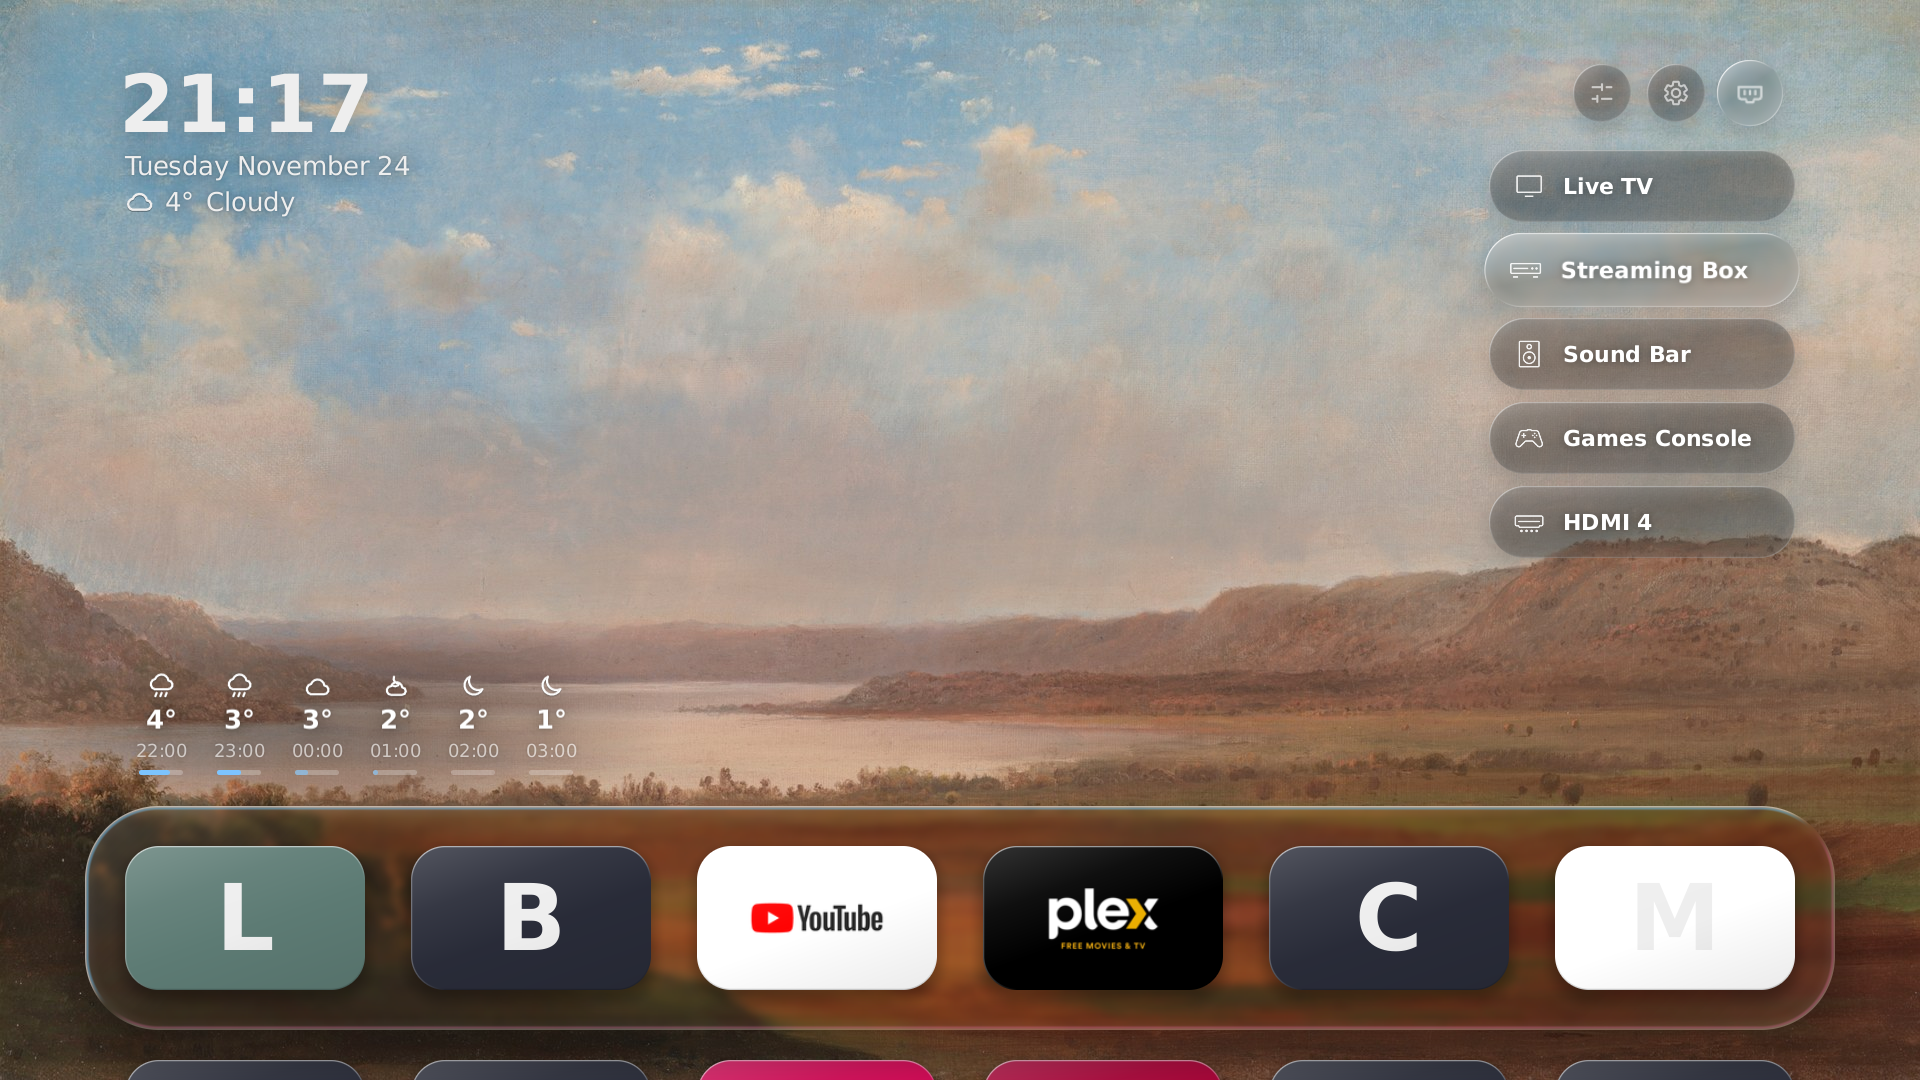
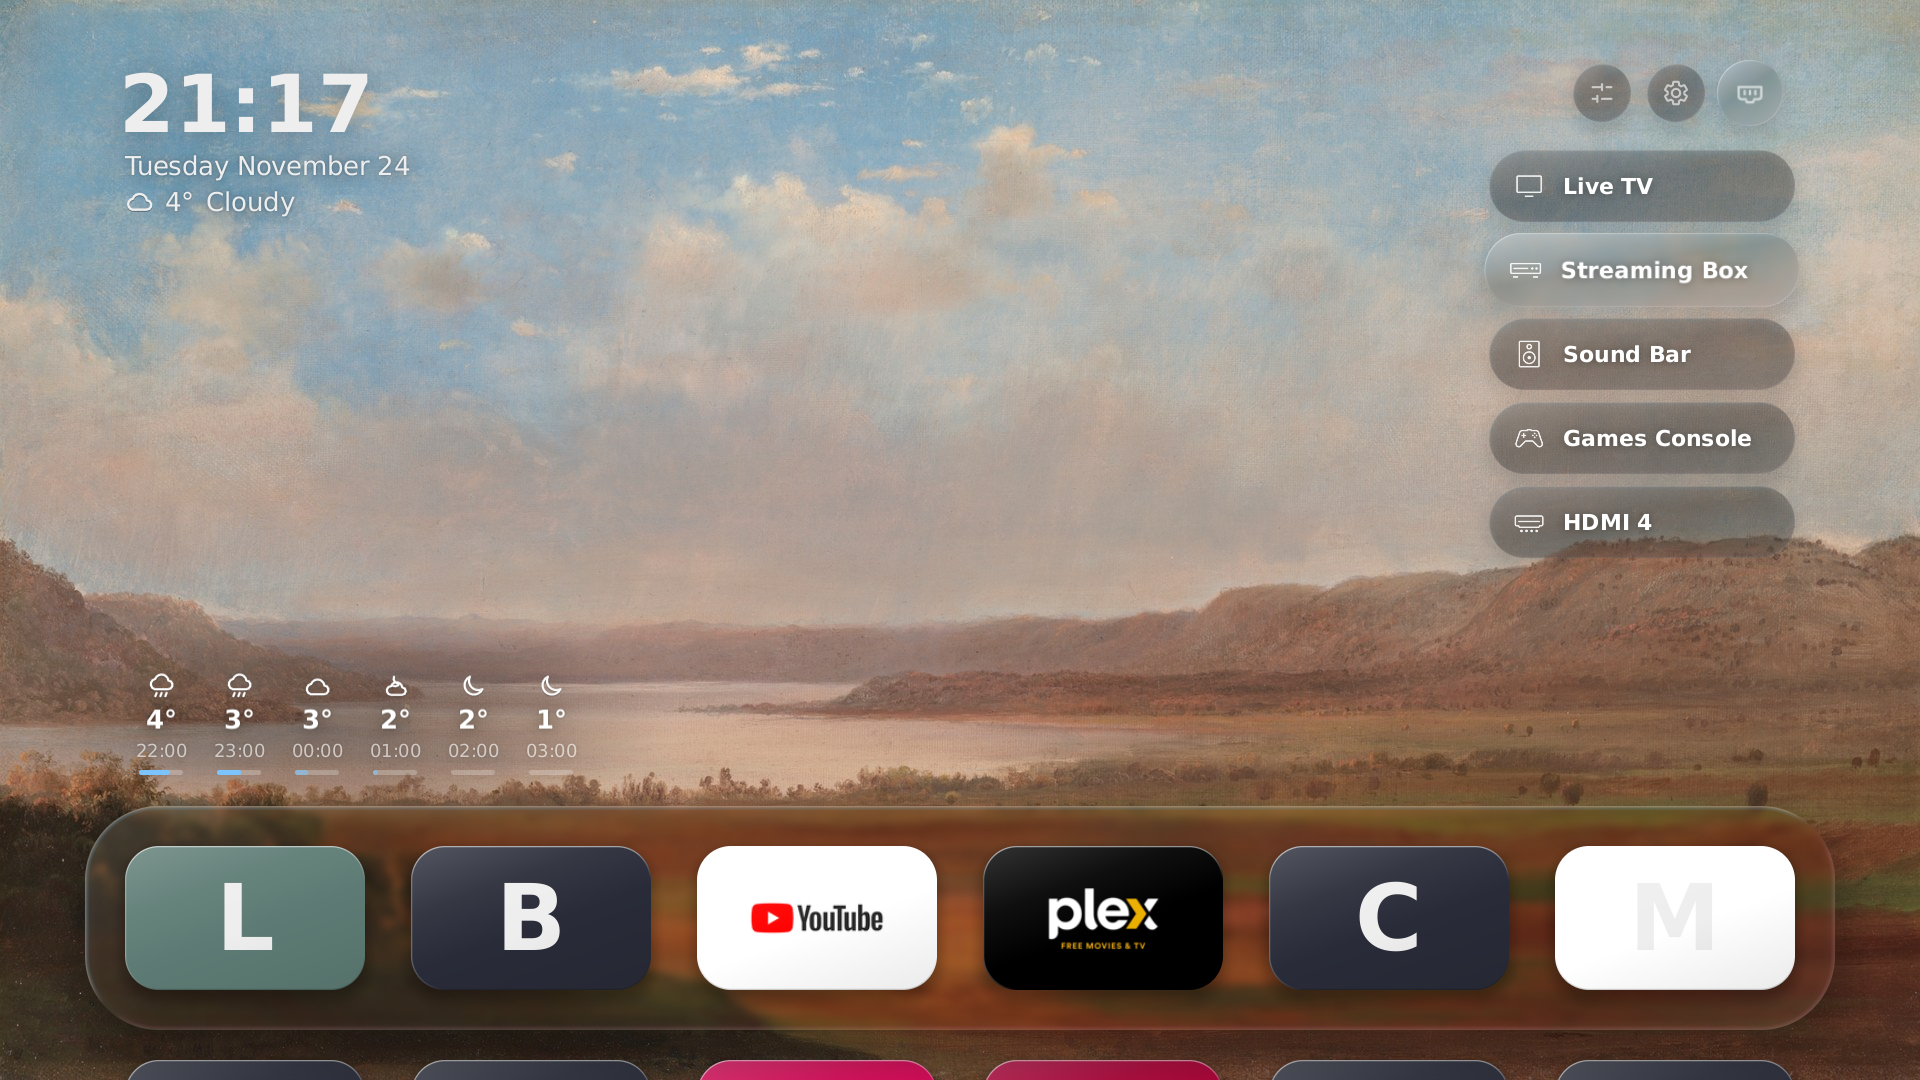
Lumen Native: Sam's glass values are the new default, and the Glass lab can make the left and right edges bend less than the top and bottom
Side edges, width and Side edges, bend set the band of bend on a glass shape's sides apart from its top and bottom, blending round the corners. The lab's timing also shows in nctl where. RESEARCH.md: the colour fringe costs nothing natively.

Changed region(s): [[0.0625, 0.7333, 0.9375, 0.7639]]

diff --git a/native/lumen/src/lab.rs b/native/lumen/src/lab.rs
@@ -20,7 +20,7 @@ const BUTTONS_Y: f32 = 184.0;
 const BUTTON_H: f32 = 54.0;
 const BUTTON_GAP: f32 = 14.0;
 const ROWS_Y: f32 = 262.0;
-const ROW_H: f32 = 46.0;
+const ROW_H: f32 = 42.0;
 const COL_W: f32 = 640.0;
 const NAME_W: f32 = 290.0;
 const TRACK_W: f32 = 220.0;
@@ -44,13 +44,15 @@ const fn slider(name: &'static str, label: &'static str, min: f32, max: f32, ste
     Control::Slider { name, label, min, max, step }
 }
 
-pub const CONTROLS: [Control; 21] = [
+pub const CONTROLS: [Control; 23] = [
     Control::Switch(Toggle::Liquid, "Liquid glass"),
     Control::Switch(Toggle::Focus, "Show focus"),
     Control::Switch(Toggle::Moving, "Move focus by itself"),
     slider("bend", "Edge bend", -200.0, 200.0, 4.0),
     slider("bezel", "Edge width", 1.0, 110.0, 1.0),
     slider("edge_shape", "Edge shape, round to flat", 1.0, 8.0, 0.25),
+    slider("side_width", "Side edges, width", 0.2, 2.0, 0.05),
+    slider("side_bend", "Side edges, bend", 0.0, 1.0, 0.05),
     slider("fringe", "Colour fringe", 0.0, 1.0, 0.02),
     slider("magnify", "Magnify", -0.2, 0.2, 0.01),
     slider("liquid_blur", "Blur, liquid glass", 0.0, 4.0, 0.05),
@@ -67,10 +69,10 @@ pub const CONTROLS: [Control; 21] = [
     slider("sheen", "Sheen", 0.0, 3.0, 0.05),
     slider("glow", "Inner glow", 0.0, 8.0, 0.25),
 ];
-const LEFT_COLUMN: usize = 11;
+const LEFT_COLUMN: usize = 12;
 pub const BUTTONS: [&str; 4] = ["Exit", "New wallpaper", "Hide controls", "Reset"];
 
-pub const GLASS_LOOK: [&str; 21] = ["bend", "bezel", "edge_shape", "fringe", "magnify", "liquid_blur", "glass_halvings", "glass_passes", "frost", "tint", "saturate", "brighten", "glass_shadow", "specular", "light_angle", "rim_light", "colour_rims", "button_colour_rims", "sheen", "glow", "finish"];
+pub const GLASS_LOOK: [&str; 23] = ["bend", "bezel", "edge_shape", "side_width", "side_bend", "fringe", "magnify", "liquid_blur", "glass_halvings", "glass_passes", "frost", "tint", "saturate", "brighten", "glass_shadow", "specular", "light_angle", "rim_light", "colour_rims", "button_colour_rims", "sheen", "glow", "finish"];
 
 #[derive(Clone, PartialEq, Debug)]
 pub enum Outcome {
@@ -286,7 +288,7 @@ impl Lab {
             Some(Control::Slider { name, label, .. }) => json!({"part": "lab__row", "label": label, "name": name, "value": look.get(name)}),
             Some(Control::Switch(toggle, label)) => json!({"part": "lab__row", "label": label, "on": self.switch_on(toggle, liquid)}),
         };
-        json!({"screen": "glass lab", "focused": [focused]})
+        json!({"screen": "glass lab", "focused": [focused], "timing": self.timing()})
     }
 
     pub fn draw(&mut self, d: &mut Draw, liquid: bool) {
@@ -391,7 +393,7 @@ mod tests {
         for i in 0..20 {
             last = lab.key(Key::Right, &look, true, 1000 + i * 50);
         }
-        assert_eq!(last, Outcome::Set("bend", 44.0 + 4.0 * 4.0));
+        assert_eq!(last, Outcome::Set("bend", Look::defaults().bend + 4.0 * 4.0));
     }
 
     #[test]

diff --git a/native/lumen/src/shaders.rs b/native/lumen/src/shaders.rs
@@ -56,13 +56,16 @@ pub const LENS_FRAGMENT: &str = r#"uniform vec4 u_bar;
 uniform float u_radius;
 uniform float u_bezel;
 uniform float u_edge_shape;
+uniform vec2 u_side;
 void main() {
   vec2 hs = u_bar.zw * 0.5;
   vec2 p = v_px - (u_bar.xy + hs);
   float d = rr(p, hs, u_radius);
   float shadow = 0.28 * (1.0 - smoothstep(-26.0, 44.0, rr(p - vec2(0.0, 20.0), hs, u_radius)));
-  float e = clamp(1.0 + d / u_bezel, 0.0, 1.0);
-  vec2 off = -rr_normal(p, hs, u_radius) * (1.0 - pow(max(1.0 - pow(e, u_edge_shape), 0.0), 1.0 / u_edge_shape));
+  vec2 n = rr_normal(p, hs, u_radius);
+  float side = abs(n.x);
+  float e = clamp(1.0 + d / (u_bezel * mix(1.0, u_side.x, side)), 0.0, 1.0);
+  vec2 off = -n * mix(1.0, u_side.y, side) * (1.0 - pow(max(1.0 - pow(e, u_edge_shape), 0.0), 1.0 / u_edge_shape));
   gl_FragColor = vec4((off * 127.0 + 128.0) / 255.0, clamp(0.5 - d, 0.0, 1.0), shadow);
 }
 "#;
@@ -223,6 +226,7 @@ uniform float u_alpha;
 uniform vec3 u_bend;
 uniform vec4 u_shape;
 uniform vec4 u_light;
+uniform vec2 u_side;
 void main() {
   vec2 hs = u_box.zw * 0.5;
   vec2 p = v_px - (u_box.xy + hs);
@@ -236,9 +240,10 @@ void main() {
   if (u_bend.x == 0.0 && u_shape.y == 0.0) seen = texture2D(u_glass, v_uv).rgb;
   else {
     float bezel = min(u_bend.z, 0.5 * min(hs.x, hs.y));
-    float e = clamp(1.0 + d / bezel, 0.0, 1.0);
+    float side = abs(n.x);
+    float e = clamp(1.0 + d / (bezel * mix(1.0, u_side.x, side)), 0.0, 1.0);
     float lift = 1.0 - pow(max(1.0 - pow(e, u_shape.x), 0.0), 1.0 / u_shape.x);
-    vec2 off = (-n * lift * u_bend.x * bezel / u_bend.z - p * u_shape.y) / vec2(1920.0, 1080.0);
+    vec2 off = (-n * lift * mix(1.0, u_side.y, side) * u_bend.x * bezel / u_bend.z - p * u_shape.y) / vec2(1920.0, 1080.0);
     seen = vec3(texture2D(u_glass, v_uv + off * (1.0 + u_bend.y)).r, texture2D(u_glass, v_uv + off).g, texture2D(u_glass, v_uv + off * (1.0 - u_bend.y)).b);
   }
   float grey = dot(seen, vec3(0.299, 0.587, 0.114));

diff --git a/native/lumen/src/home.rs b/native/lumen/src/home.rs
@@ -251,7 +251,7 @@ pub struct Home {
     veil: Tex,
     blurs_made_with: [i32; 5],
     bar_made_with: f32,
-    plates_made_with: [f32; 8],
+    plates_made_with: [f32; 10],
     shift: Anim,
     veil_fade: Anim,
     drop: Anim,
@@ -479,7 +479,7 @@ impl Home {
             veil: Tex::default(),
             blurs_made_with: [0; 5],
             bar_made_with: 0.0,
-            plates_made_with: [0.0; 8],
+            plates_made_with: [0.0; 10],
             shift: Anim::still(0.0),
             veil_fade: Anim::still(0.0),
             drop: Anim::still(0.0),
@@ -1231,9 +1231,9 @@ impl Home {
         resting
     }
 
-    fn plate_look(d: &Draw) -> [f32; 8] {
+    fn plate_look(d: &Draw) -> [f32; 10] {
         let l = &d.look;
-        [l.bezel, l.edge_shape, l.specular, l.light_angle, l.colour_rims, l.rim_light, l.sheen, l.glow]
+        [l.bezel, l.edge_shape, l.specular, l.light_angle, l.colour_rims, l.rim_light, l.sheen, l.glow, l.side_width, l.side_bend]
     }
 
     fn bar_plates(&mut self, d: &mut Draw) -> (Tex, Tex) {
@@ -1250,12 +1250,13 @@ impl Home {
             program.set1(c"u_radius", BAR_RADIUS);
             program.set1(c"u_bezel", d.look.bezel);
             program.set1(c"u_edge_shape", d.look.edge_shape);
+            program.set2(c"u_side", d.look.side_width, d.look.side_bend);
             let [lx, ly] = d.light();
             program.set4(c"u_light", lx, ly, d.look.specular, d.look.colour_rims);
             program.set3(c"u_finish", [d.look.rim_light, d.look.sheen, d.look.glow]);
             d.gfx.quad(program, 0.0, 0.0, w, h);
         }
-        self.bar_made_with = d.look.bezel;
+        self.bar_made_with = d.look.bezel * d.look.side_width.max(1.0);
         self.plates_made_with = Self::plate_look(d);
         d.keep("bar:lens", lens);
         d.keep("bar:gloss", gloss);

diff --git a/native/lumen/src/look.rs b/native/lumen/src/look.rs
@@ -50,11 +50,11 @@ look! {
     show_top_wait_ms = 200.0, 0.0, 2000.0;
     glass_halvings = 0.0, 0.0, 4.0;
     glass_passes = 1.0, 1.0, 8.0;
-    liquid_blur = 0.35, 0.0, 4.0;
+    liquid_blur = 0.1, 0.0, 4.0;
     veil_halvings = 2.0, 0.0, 4.0;
     veil_passes = 3.0, 1.0, 8.0;
-    bezel = 28.0, 1.0, 110.0;
-    bend = 44.0, -200.0, 200.0;
+    bezel = 27.0, 1.0, 110.0;
+    bend = 36.0, -200.0, 200.0;
     fringe = 0.12, 0.0, 1.0;
     saturate = 1.5, 0.0, 3.0;
     brighten = 1.1, 0.0, 3.0;
@@ -69,12 +69,14 @@ look! {
     magnify = 0.0, -0.5, 0.5;
     specular = 0.0, 0.0, 2.0;
     light_angle = -45.0, -180.0, 180.0;
-    rim_light = 1.0, 0.0, 3.0;
-    colour_rims = 1.0, 0.0, 3.0;
-    button_colour_rims = 0.0, 0.0, 3.0;
+    rim_light = 0.5, 0.0, 3.0;
+    colour_rims = 0.35, 0.0, 3.0;
+    button_colour_rims = 0.1, 0.0, 3.0;
     sheen = 1.0, 0.0, 3.0;
     frost = 0.0, 0.0, 1.0;
-    glow = 1.0, 0.0, 8.0;
+    glow = 0.5, 0.0, 8.0;
+    side_width = 1.0, 0.2, 2.0;
+    side_bend = 1.0, 0.0, 1.0;
 }
 
 impl Look {

diff --git a/native/lumen/src/draw.rs b/native/lumen/src/draw.rs
@@ -325,6 +325,7 @@ impl Draw {
         p.set4(c"u_shape", self.look.edge_shape, self.magnify(), self.look.frost, self.look.glow);
         let [lx, ly] = self.light();
         p.set4(c"u_light", lx, ly, self.look.specular, self.look.button_colour_rims);
+        p.set2(c"u_side", self.look.side_width, self.look.side_bend);
         let margin = 40.0;
         self.gfx.quad(p, g.x - margin, g.y - margin, g.w + 2.0 * margin, g.h + 2.0 * margin);
     }

diff --git a/docs/research/RESEARCH.md b/docs/research/RESEARCH.md
@@ -63,6 +63,7 @@ More measurements from the webOS 25 TV are in `docs/research/frame-rate.md`, `do
   - Refraction strength (60 or 140) and bezel depth (14 or 40) make no clear difference. The cost is reading the backdrop at all, not the lens settings.
   - The colour fringe (3 passes) drops to 4-7 fps while moving.
   - Each layer alone, moving (3 runs each): tint, sheen and rims only 41 fps (45-47 without the focus highlight); colour boost (saturate and brightness) 33; 3px blur 25; refraction 18; refraction with the boost 19; refraction with blur and boost 15; refraction with the fringe 7. The first layer that reads the backdrop pays most of the cost.
+- Native (Lumen Native, 2026-11-24, Glass lab with the focus moving along the bar): the colour fringe is one extra picture read per colour in the glass's rim only, and costs nothing measurable. Fringe 0, 0.12, 0.5 and 1 all held 50 frames a second at 14.7-14.9 ms a frame (the screen's rate), worst frame about 23 ms. The web fringe was slow because the browser ran three full SVG filter passes over the backdrop each frame, not because of the colour split itself.
 - Online, only SVG displacement or WebGL does real refraction. The static rim and highlight tricks are from https://dev.to/kevinbism/recreating-apples-liquid-glass-effect-with-pure-css-3gpl and https://dev.to/afif/border-with-gradient-and-radius-387f.
 
 ## Sources

diff --git a/docs/plans/native-rewrite.md b/docs/plans/native-rewrite.md
@@ -44,7 +44,10 @@ Left out:
   flatter in the middle and steeper at the rim), `magnify`, `specular` and `light_angle` (a glint along the rim facing the light),
   `rim_light`, `colour_rims` (the blue and pink rims on the bar), `button_colour_rims`, `sheen`, `frost` (white haze) and `glow`.
   The panel shows how long the last frame took to draw, and frames a second while "Move focus by itself" is on. What is set
-  there is kept in the look file, as with `nctl.mjs set`; Reset puts back only the glass values. **(verify)** Sam has not tried it yet.
+  there is kept in the look file, as with `nctl.mjs set`; Reset puts back only the glass values. Sam tried it and set new defaults (2026-11-24): `liquid_blur` 0.1,
+  `bezel` 27, `bend` 36, `rim_light` 0.5, `colour_rims` 0.35, `button_colour_rims` 0.1, `glow` 0.5. Added after:
+  `side_width` and `side_bend`, which make the band of bend on the left and right edges narrower or weaker than on the top and
+  bottom, blending round the corners, so a pill reads more like a drop of water than an even ring. **(verify)** their look.
 - **The Print look** on the home screen.
 - **Focus strength** as a setting. One strength.
 - **Hide the dock** and its dim.
